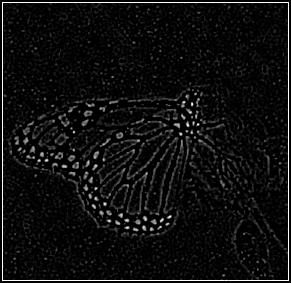
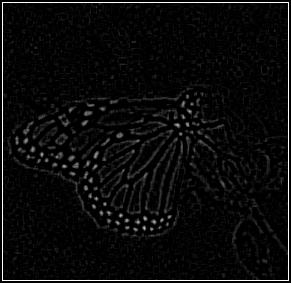
final

diff --git a/filters.py b/filters.py
@@ -138,10 +138,10 @@ def gradient(imagem, axis):
     img_alterada = Image.new('RGB', imagem.size)
     for x in range(1, imagem.width - 1):
         for y in range(1, imagem.height - 1):
-            xp = x + 1 if axis == 'x' else x
-            yp = y + 1 if axis == 'y' else y
-            xp1 = x - 1 if axis == 'x' else x
-            yp1 = y - 1 if axis == 'y' else y
+            xp = x + 1 if axis == 'y' else x
+            yp = y + 1 if axis == 'x' else y
+            xp1 = x - 1 if axis == 'y' else x
+            yp1 = y - 1 if axis == 'x' else y
             gx = imagem.getpixel((xp1, yp1))[0] - imagem.getpixel((xp, yp))[0] 
             img_alterada.putpixel(
                 (x, y), value=(int(gx), int(gx), int(gx))
@@ -184,7 +184,7 @@ print("OK.")
 showImage(image, contadorExemplos= 2)
 
 print("LoG...")
-sigma = 1
+sigma = 2
 size = 5
 exemplos.append(Image.open("exemplo3.jpg")) 
 image = laplacian(gaussian_smooth(exemplos[2], size, sigma))
@@ -223,3 +223,10 @@ image = sobel(exemplos[7])
 image = gradient(image, axis='y')
 print("OK.")
 showImage(image, contadorExemplos= 8)
+
+print("Mistura 2: gaussian_smooth -> sharpening")
+exemplos.append(Image.open("exemplo9.jpg"))
+image = gaussian_smooth(exemplos[8], 3, 2)
+image = sharpening(image)
+print("OK.")
+showImage(image, contadorExemplos= 9)
